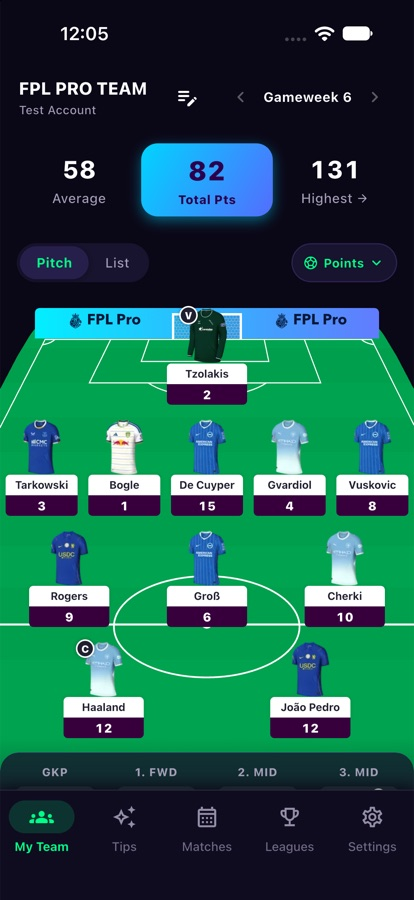
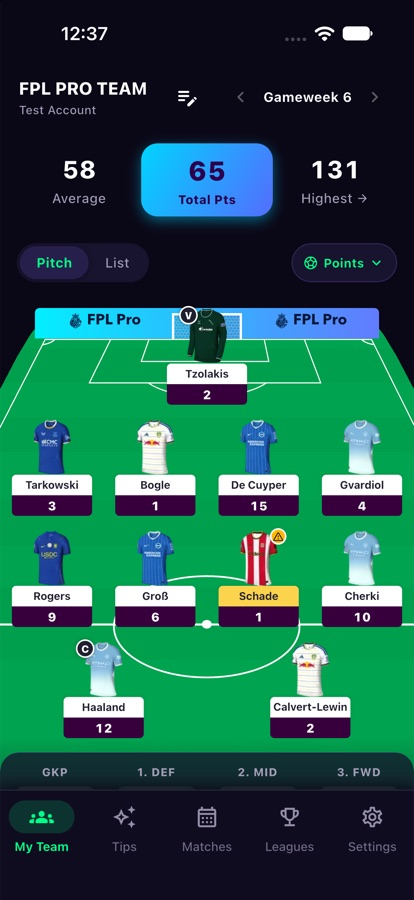
Use the official lineup screenshot on the website hero

diff --git a/site/public/index.html b/site/public/index.html
@@ -52,7 +52,7 @@
  </div>
  <div class="stage">
   <figure class="phone p1"><img src="/img/07-team.jpg" alt="Squad shown on a football pitch with points per player" width="900" height="1957"></figure>
-  <figure class="phone p2"><img src="/img/12-best-xi.jpg" alt="Suggested best starting eleven with forecast points" width="900" height="1957"></figure>
+  <figure class="phone p2"><img src="/img/08-tips.jpg" alt="Gameweek plan with captain pick and chip decision" width="900" height="1957"></figure>
  </div>
 </div>
 </div>
